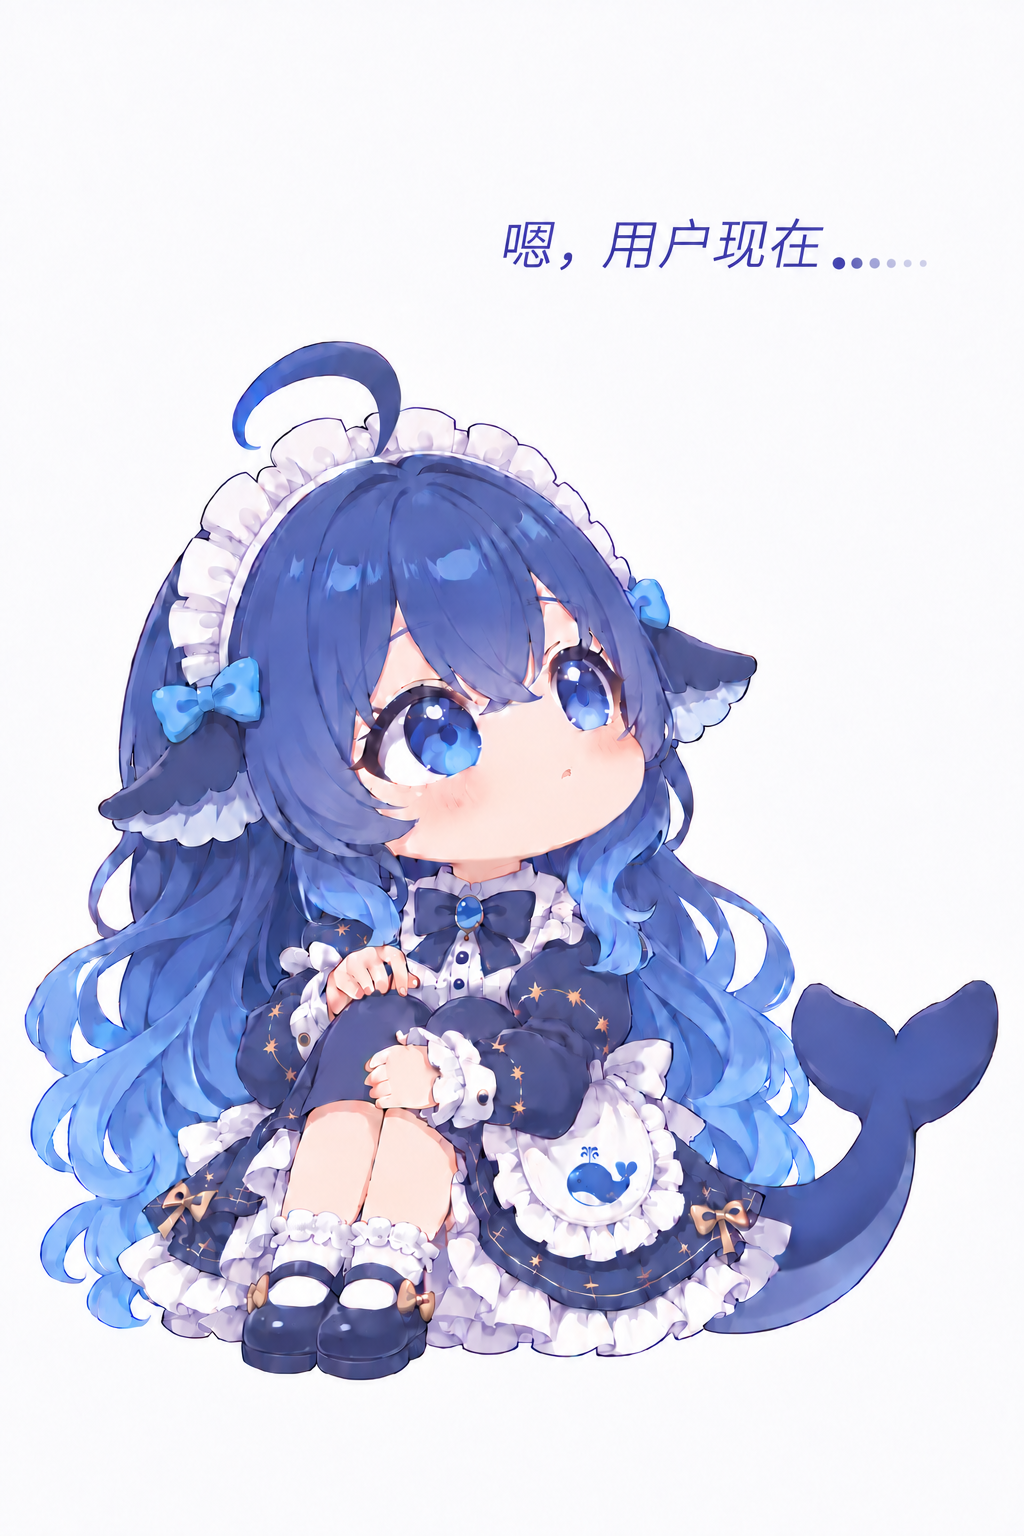
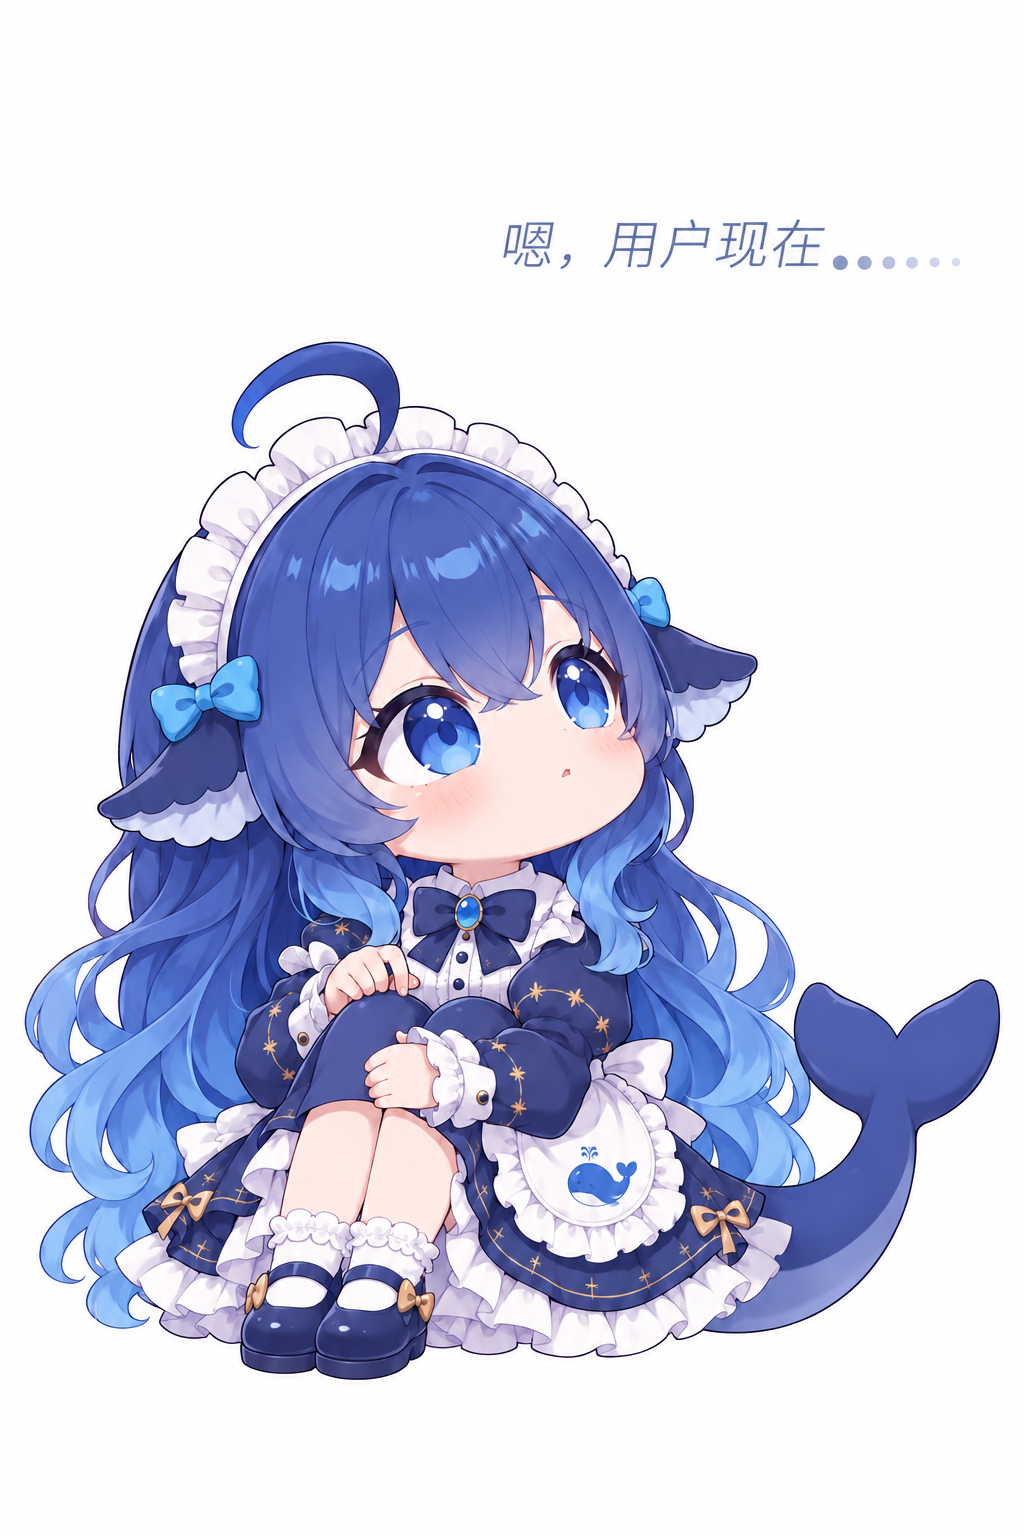
assets: restore crisp DeepSeek character rendering

diff --git a/docs/card_image_prompts.md b/docs/card_image_prompts.md
@@ -9,7 +9,7 @@
 ## 0. 成品文件
 
 - [gpt.png](../asset/card_character/final/gpt.png)：审阅。
-- [deepseek.png](../asset/card_character/final/deepseek.png)：抱膝望天。
+- [deepseek.png](../asset/card_character/final/deepseek.png)：抱膝望天，采用恢复第一版清晰画风的版本。
 - [glm.png](../asset/card_character/final/glm.png)：上手。
 - [grok.png](../asset/card_character/final/grok.png)：看戏，采用已确认的浅发色与局部裙摆调整。
 - [kimi.png](../asset/card_character/final/kimi.png)：抱书，深蓝服装、银白头发、两处 K 标志。
@@ -69,7 +69,9 @@
 
 ## 5. DeepSeek · 抱膝望天
 
-参考图：`asset/mini2_character/deepseek.jpg`（角色设计）；`asset/card_character/final/deepseek.png`（已确认抱膝姿态）；`asset/mini_character/deepseek.jpg`（细节补查）。
+参考图：`asset/mini2_character/deepseek.jpg`（角色设计）；`asset/card_character/final/deepseek.png`（已确认抱膝姿态与清晰画风）；`asset/mini_character/deepseek.jpg`（细节补查）；GPT、Claude 定稿（统一线稿与上色）。当前确认版本为 `deepseek-style-v10`。
+
+画风保持第一版的清晰细线与干净色块；发束、高光、金色纹样、荷叶边和手部细节边界分明，避免水彩晕染、碎色块和模糊边缘。
 
 **中文 Prompt**
 
